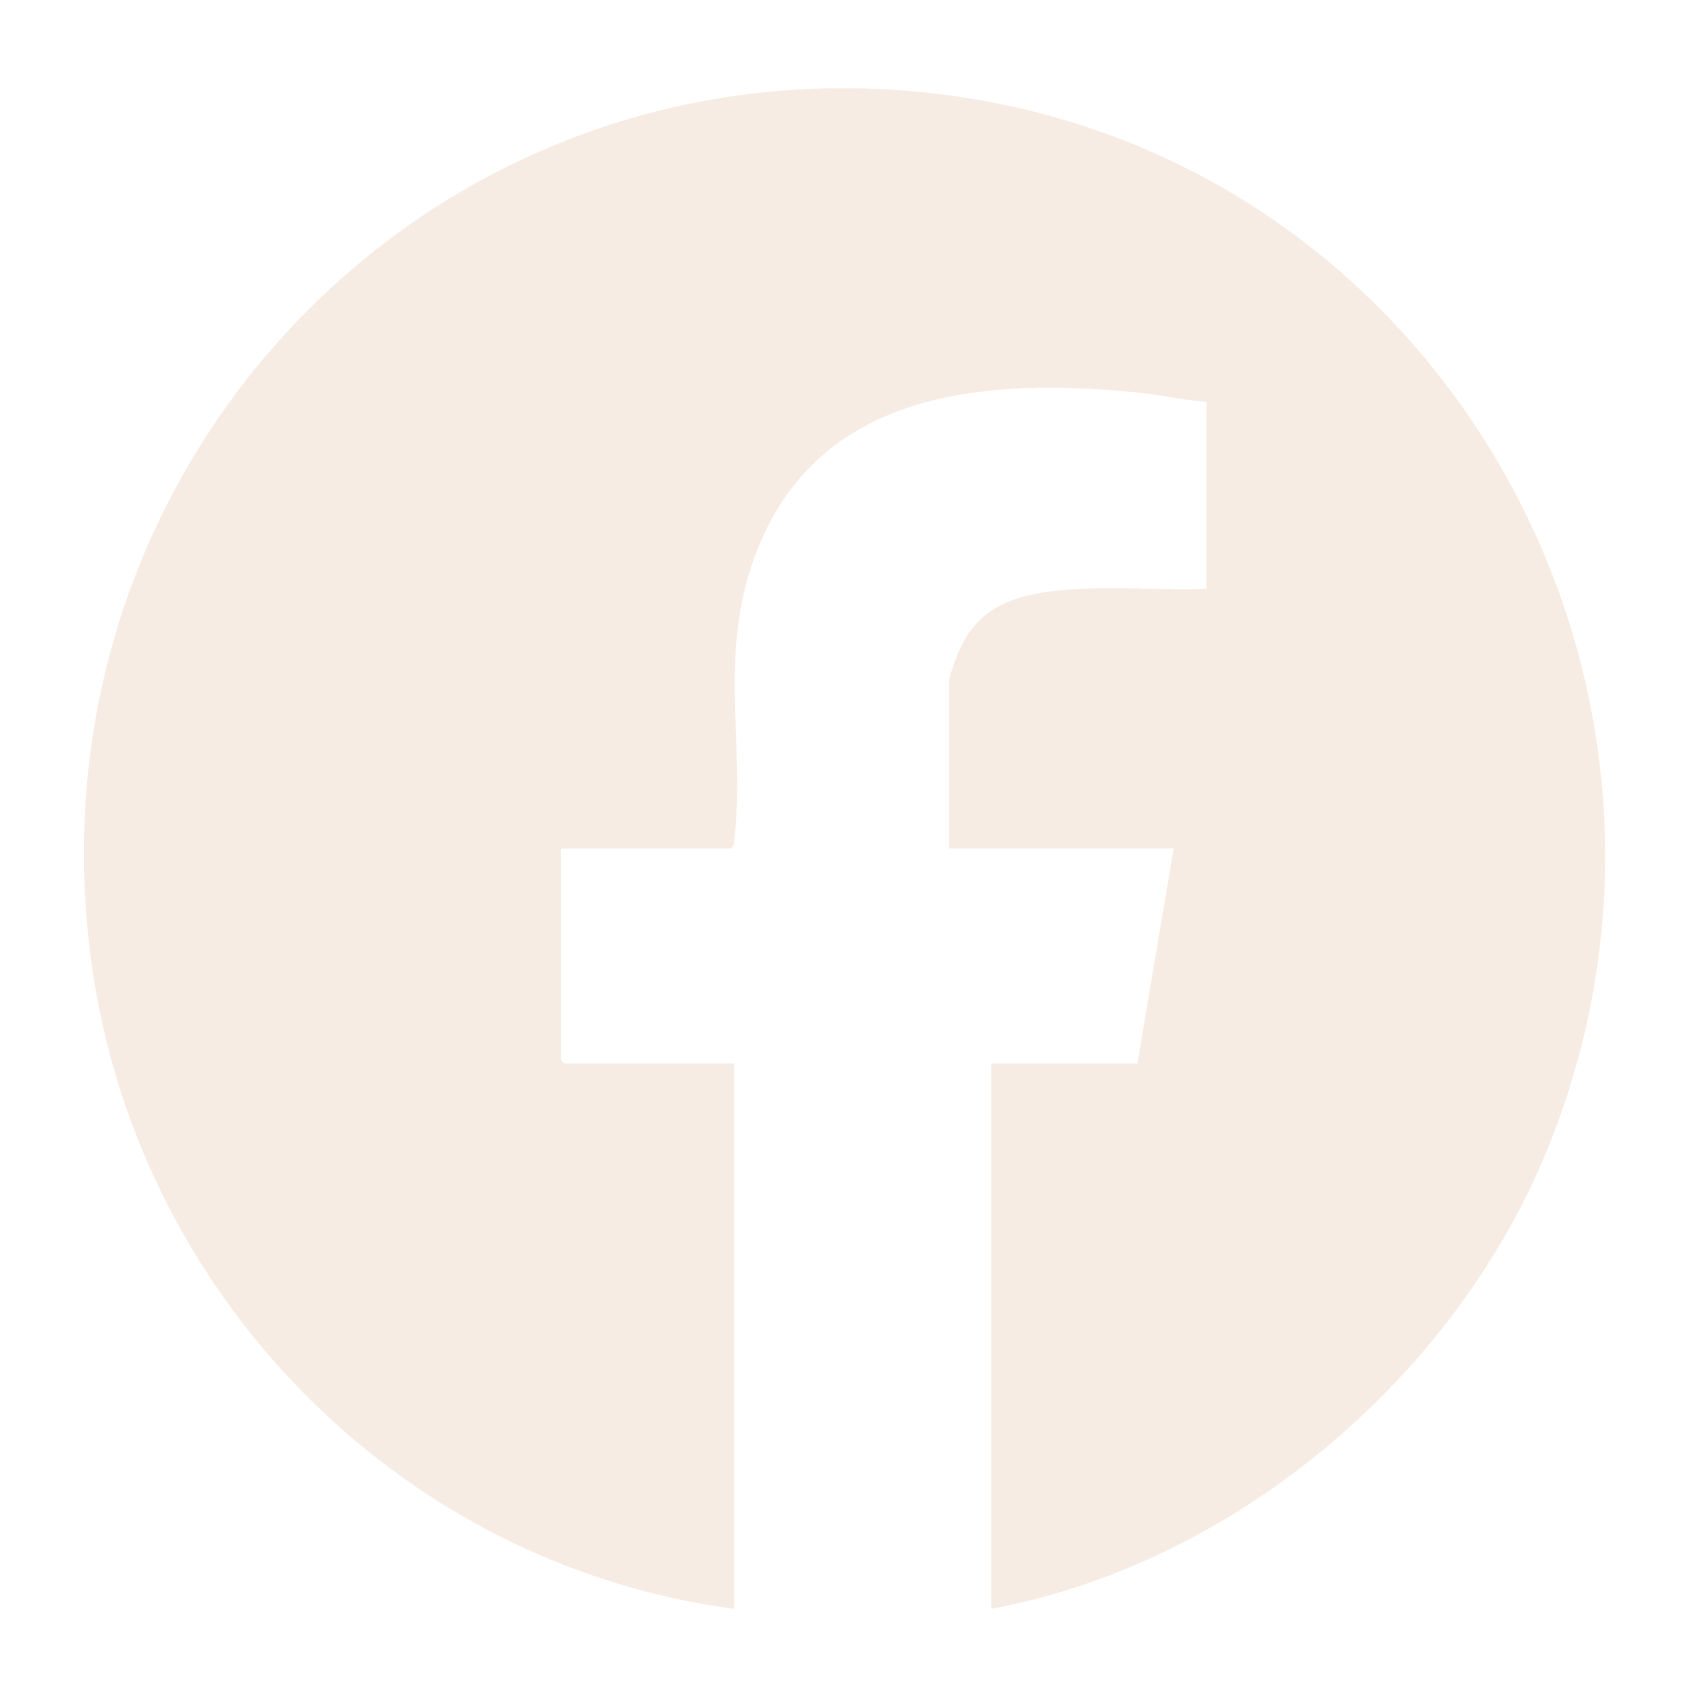
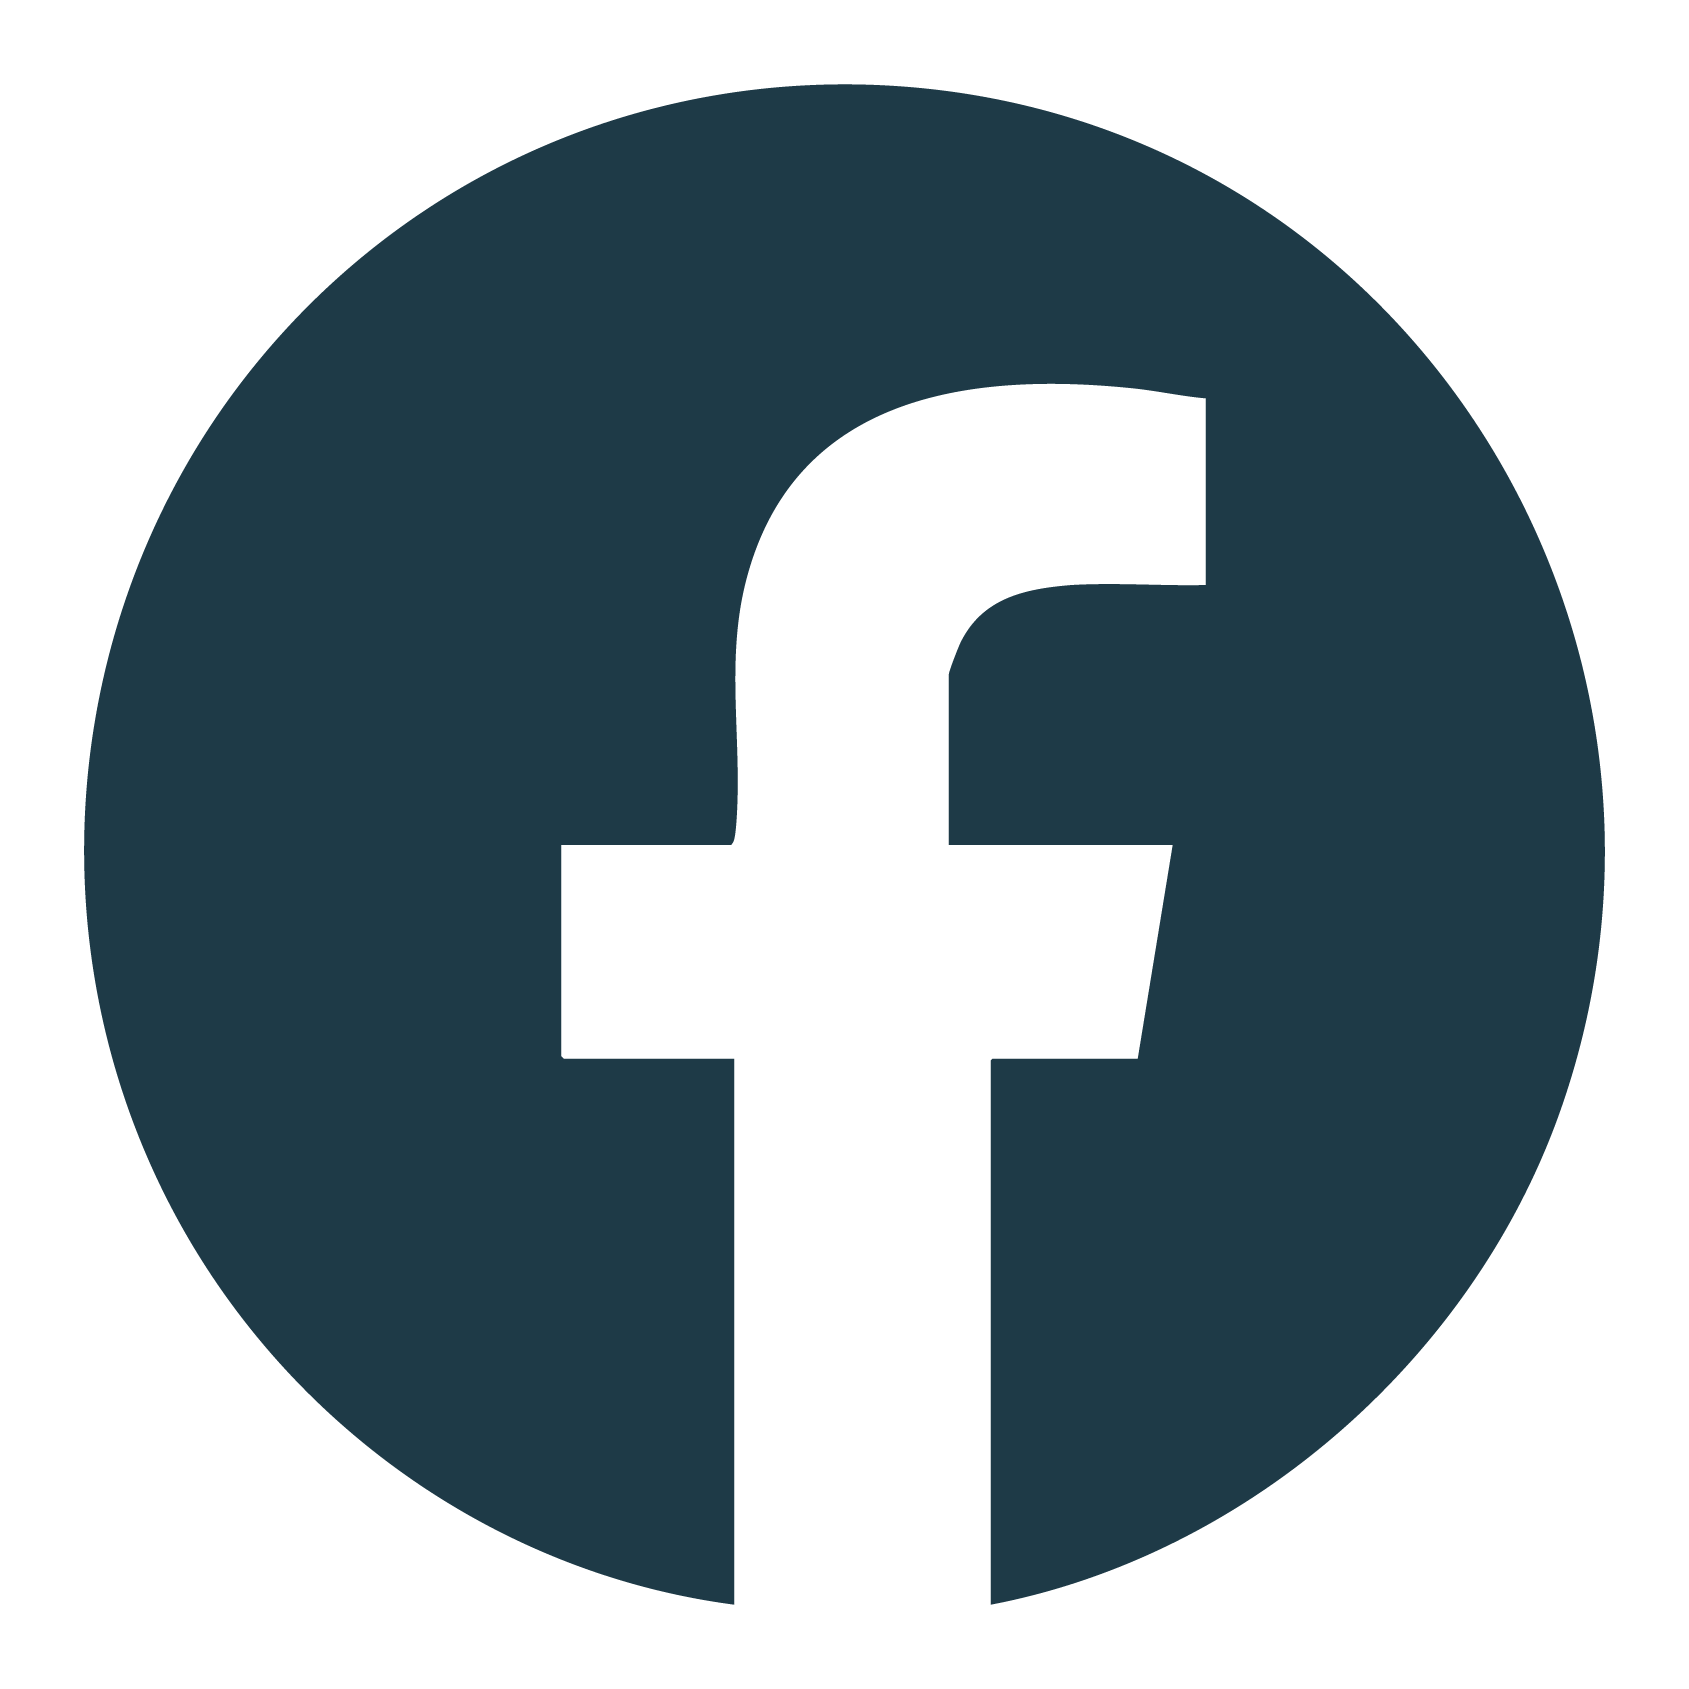
correction couleurs

diff --git a/index.html b/index.html
@@ -83,16 +83,16 @@
 				  <div class="text-white opacity-0">
 					<p>
 						Tout a commencé par le désir d’approfondir ses connaissances sur l’être humain.  Passionné par l’humain depuis sa tendre enfance France ne cesse d’être à la recherche des pièces du casse-tête qui forme la globalité d’un humain. C’est ainsi qu’en accompagnant ses 4 enfants dans les tumultes de la vie et fait des formations sur le plan énergétique, elle découvre l’école Écoute ton corps.  Elle comprend rapidement que ces notions viennent nourrir bien au-delà des connaissances mentales.   De découverte en découverte sur elle-même et sur ses relations avec les autres, elle voit sa vie se transformer peu à peu ainsi que ses relations.  Elle devient l’outil de sa recherche et de ses apprentissages.  Elle réalise que de pouvoir être à l’écoute de son corps physique, émotionnel, mental et spirituel est à la base de la santé globale de son Être.  La découverte de ses désirs, ses besoins, ses peurs et ses limites lui ouvre la porte de la liberté, de la paix intérieure et lui donne la clef du déploiement de son plein potentiel.C’est ainsi que d’un désir profond de connaissance sur l’être humain est né le rêve de pouvoir partager ses apprentissages, ses outils et ses expériences pour ainsi offrir cette possibilité de transformation aux personnes intéressés.L’amour et l’acceptation de soi sont à la base de cette transformation vers un bien-être possible en chaque individu., l’Harmonisation énergétique ou la méthode d’Intégration mémorielle sont proposé dans L’accompagnement est offert sous forme de rencontres individuelles.  Les rencontres en relation d’aide l’accompagnement et sont toutes bénéfique selon les besoins spécifiques de la personne.    
-					  </p>
+					</p>
 				  </div>
 				<div>
-					<h1 class="text-center mb-5 text-primary"> « Un voyage de mille lieues commence toujours par un premier pas. » – Lao Tseu</h1>
+					<h1 class="text-center mb-5 text-dark"> « Un voyage de mille lieues commence toujours par un premier pas. » – Lao Tseu</h1>
 					<div class="row row-cols-1 row-cols-md-3 g-4">
 						<div class="col">
 						  <div class="bg-opacity-0">
 							<img src="img/icones-36.png" class="card-img-top  w-50 mx-auto d-block" alt="etoile">
 							<div class="card-body text-center">
-							  <p class="card-text">Tu veux mieux comprendre tes émotions et les apprivoiser.</p>
+							  <p class="card-text text-dark">Tu veux mieux comprendre tes émotions et les apprivoiser.</p>
 							</div>
 						  </div>
 						</div>
@@ -100,7 +100,7 @@
 						  <div class=" bg-opacity-0">
 							<img src="img/icones-34.png" class="card-img-top  w-50 mx-auto d-block" alt="fleur">
 							<div class="card-body text-center">
-							  <p class="card-text">Tu veux t’offrir un moment pour toi, pour te recentrer.</p>
+							  <p class="card-text text-dark">Tu veux t’offrir un moment pour toi, pour te recentrer.</p>
 							</div>
 						  </div>
 						</div>
@@ -108,14 +108,14 @@
 						  <div class="bg-opacity-0">
 							<img src="img/icones-35.png" class="card-img-top  w-50 mx-auto d-block" alt="coeur">
 							<div class="card-body text-center">
-							  <p class="card-text">Tu veux apprendre à mieux t’écouter et à poser tes limites.</p>
+							  <p class="card-text text-dark">Tu veux apprendre à mieux t’écouter et à poser tes limites.</p>
 							</div>
 						  </div>
 						</div>
 					  </div>
 				</div>
 			</section>	
-			<section class="pt-5 text-light" style="margin-top: 25rem;">
+			<section class="pt-5 text-dark" style="margin-top: 25rem;">
 				<div class="container">
 				  <h1 class="text-center mb-5">Des retours qui font chaud au cœur</h1>
 				  <div class="row row-cols-1 row-cols-md-2 row-cols-lg-5 g-4 text-center">
@@ -176,10 +176,10 @@
 		  <div class="row align-items-center text-center text-md-start">
 			<!-- Bloc gauche -->
 			<div class="col-md-4 mb-md-0">
-			  <ul class="list-unstyled text-light">
-				<li><a href="Services.html" class="text-white text-decoration-none">Services</a></li>
-				<li><a href="À propos.html" class="text-white text-decoration-none">À propos</a></li>
-				<li><a href="Me joindre.html" class="text-white text-decoration-none">Me joindre</a></li>
+			  <ul class="list-unstyled">
+				<li><a href="Services.html" class="text-primary text-decoration-none">Services</a></li>
+				<li><a href="À propos.html" class="text-primary text-decoration-none">À propos</a></li>
+				<li><a href="Me joindre.html" class="text-primary text-decoration-none">Me joindre</a></li>
 			  </ul>
 			</div>
 	  
@@ -191,13 +191,13 @@
 			</div>
 	  
 			<!-- Bloc droite -->
-			<div class="col-md-4 text-md-end text-light">
+			<div class="col-md-4 text-md-end text-primary">
 				<p class="mb-0">France Coupal</p>
 				<p class="mb-0">
-				  <a href="tel:18198184770" class="text-white text-decoration-none">819 818-4770</a>
+				  <a href="tel:18198184770" class="text-primary text-decoration-none">819 818-4770</a>
 				</p>
 				<p class="mb-0">
-				  <a href="mailto:fc.relationdaide@gmail.com" class="text-white text-decoration-none">fc.relationdaide@gmail.com</a>
+				  <a href="mailto:fc.relationdaide@gmail.com" class="text-primary text-decoration-none">fc.relationdaide@gmail.com</a>
 				</p>
 				<p class="mt-2">
 					<a href="https://www.facebook.com/france.beaudry.3532" target="_blank">
